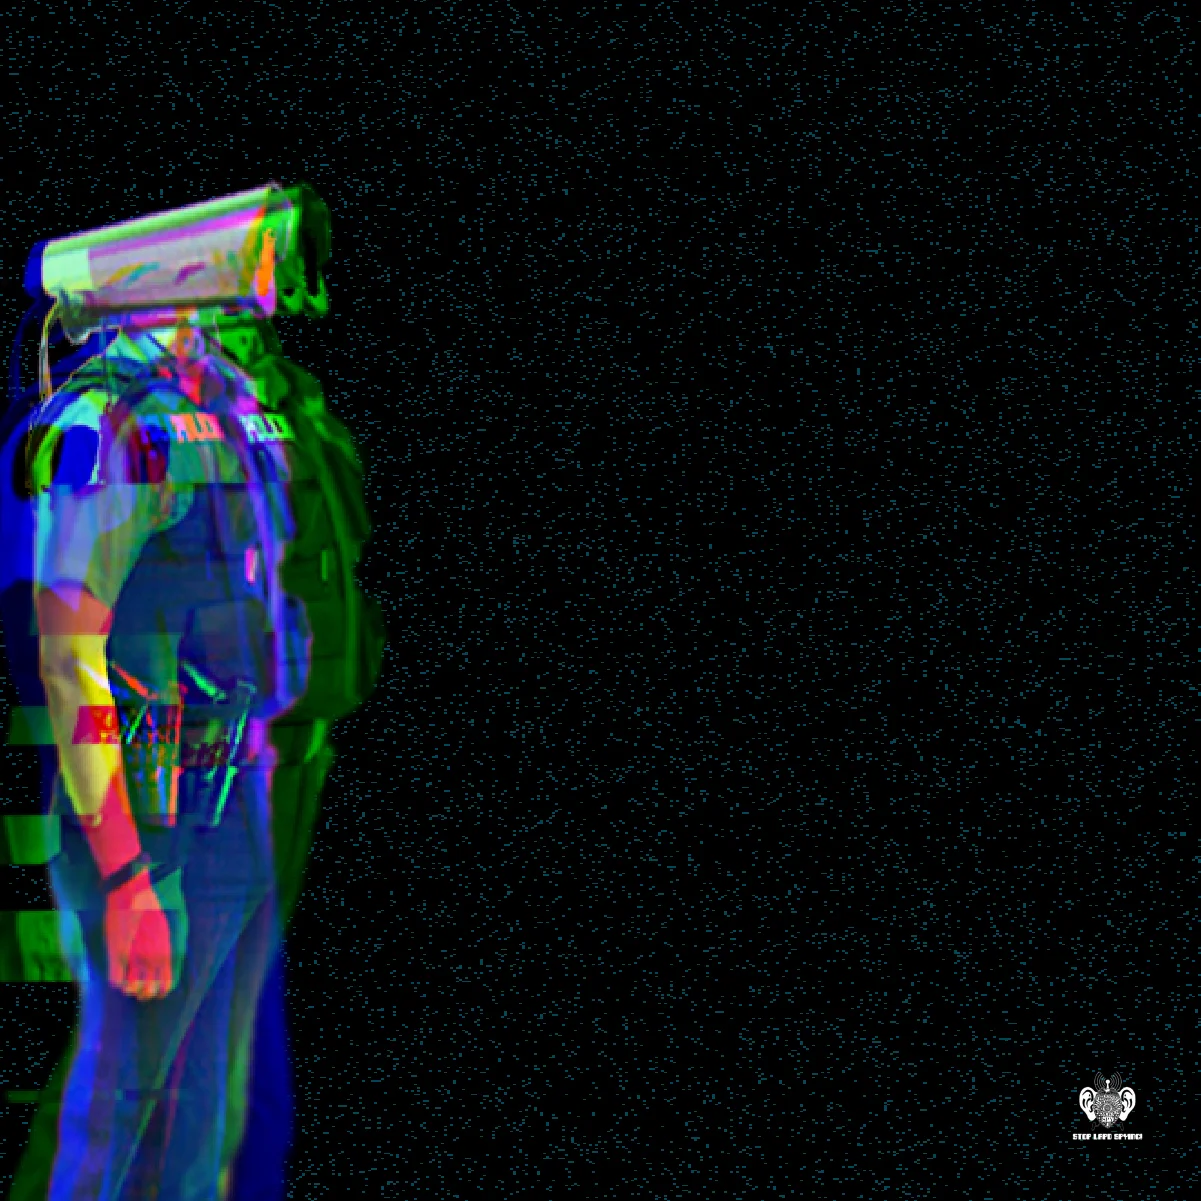
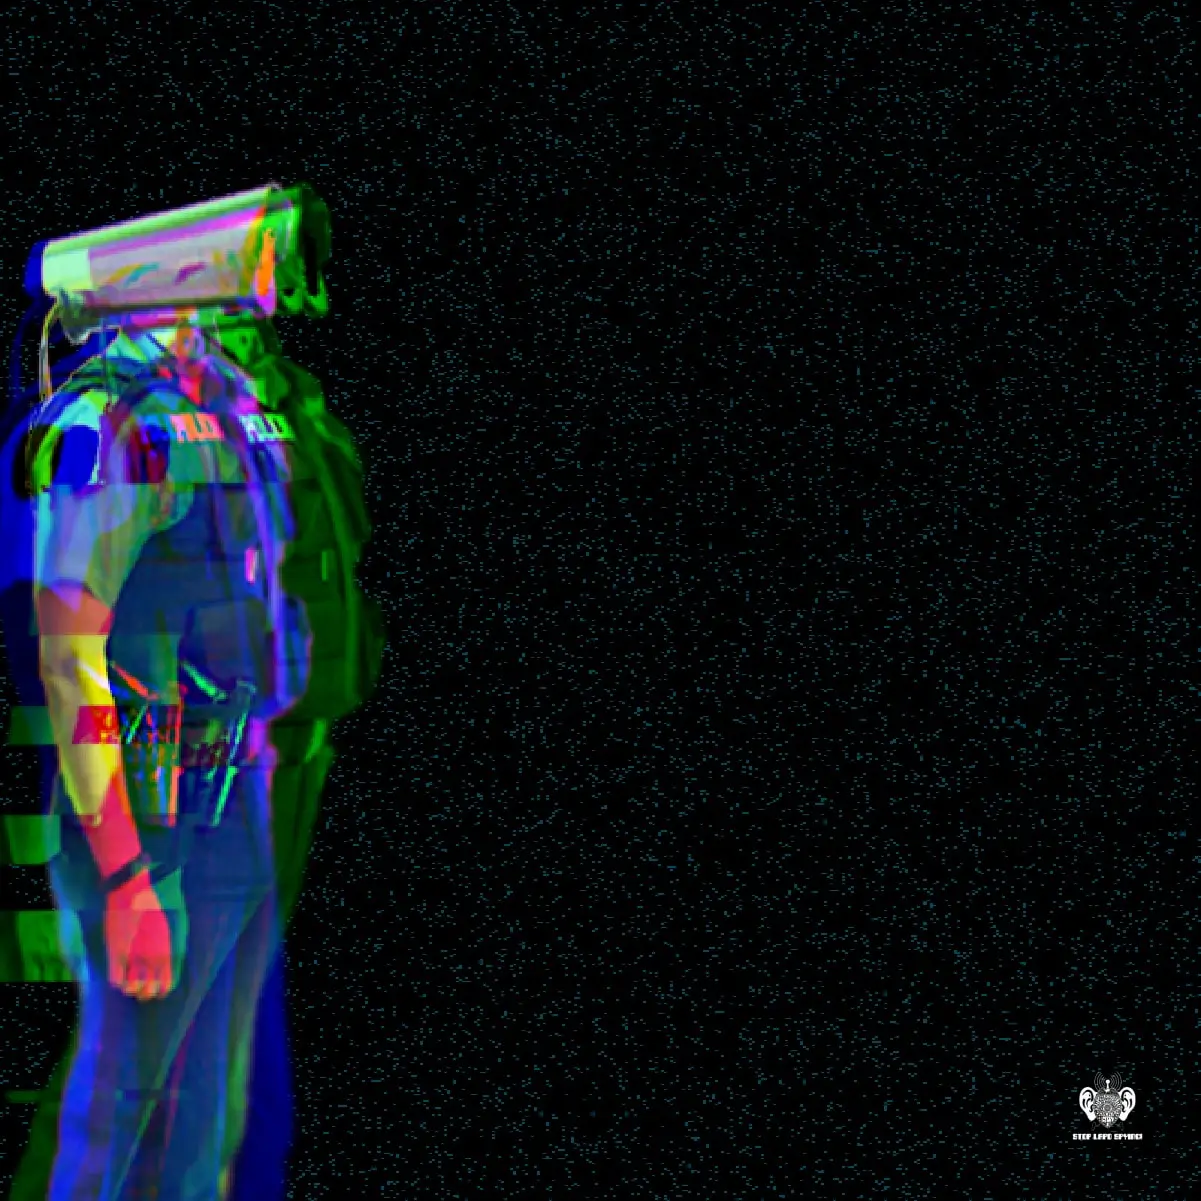
update image

diff --git a/wp-content/themes/TheStalkerState/css/front-page.css b/wp-content/themes/TheStalkerState/css/front-page.css
@@ -3,7 +3,7 @@
 }
 
 #scene-container #stage {
-  background-image: url('/wp-content/themes/TheStalkerState/assets/camera-head.jpg');
+  background-image: url('/wp-content/themes/TheStalkerState/assets/camera-head.webp');
   background-repeat: no-repeat;
   background-size: cover;
   height: 100vh;
